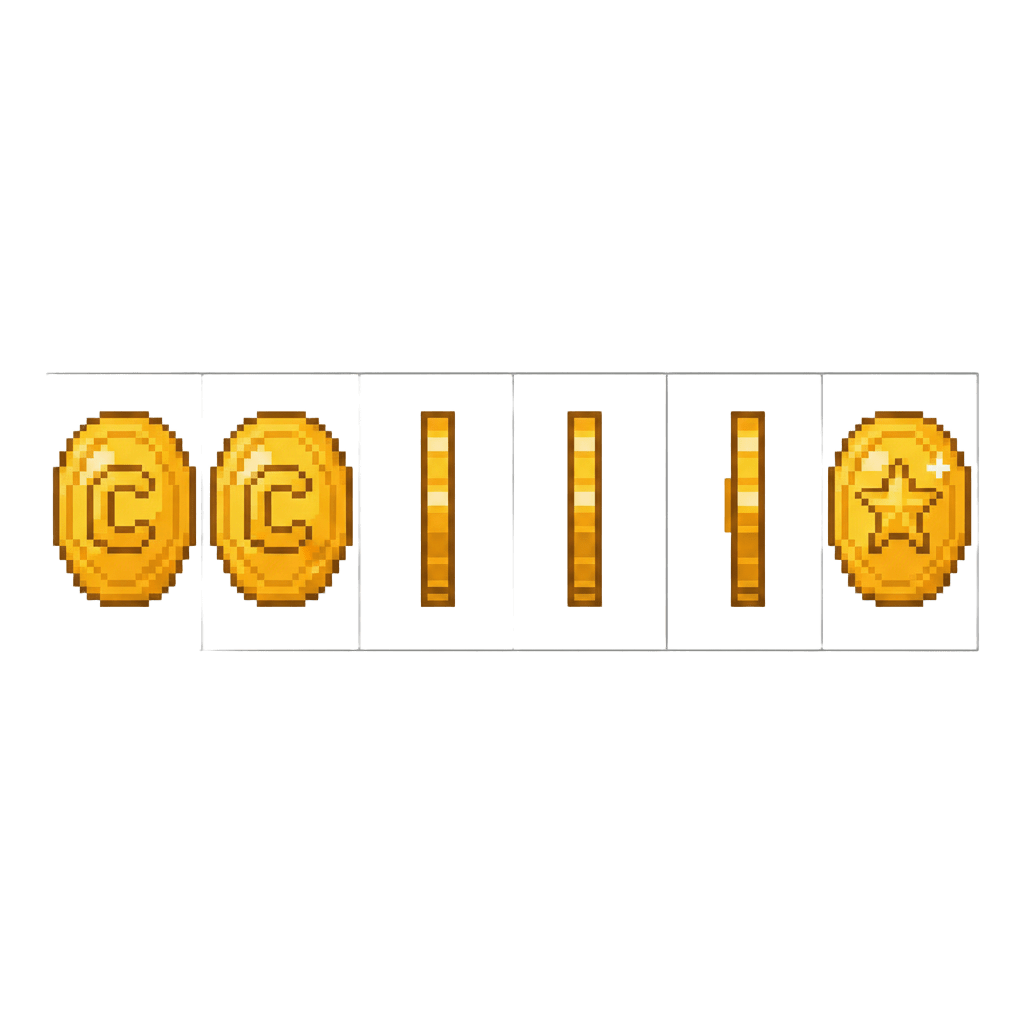
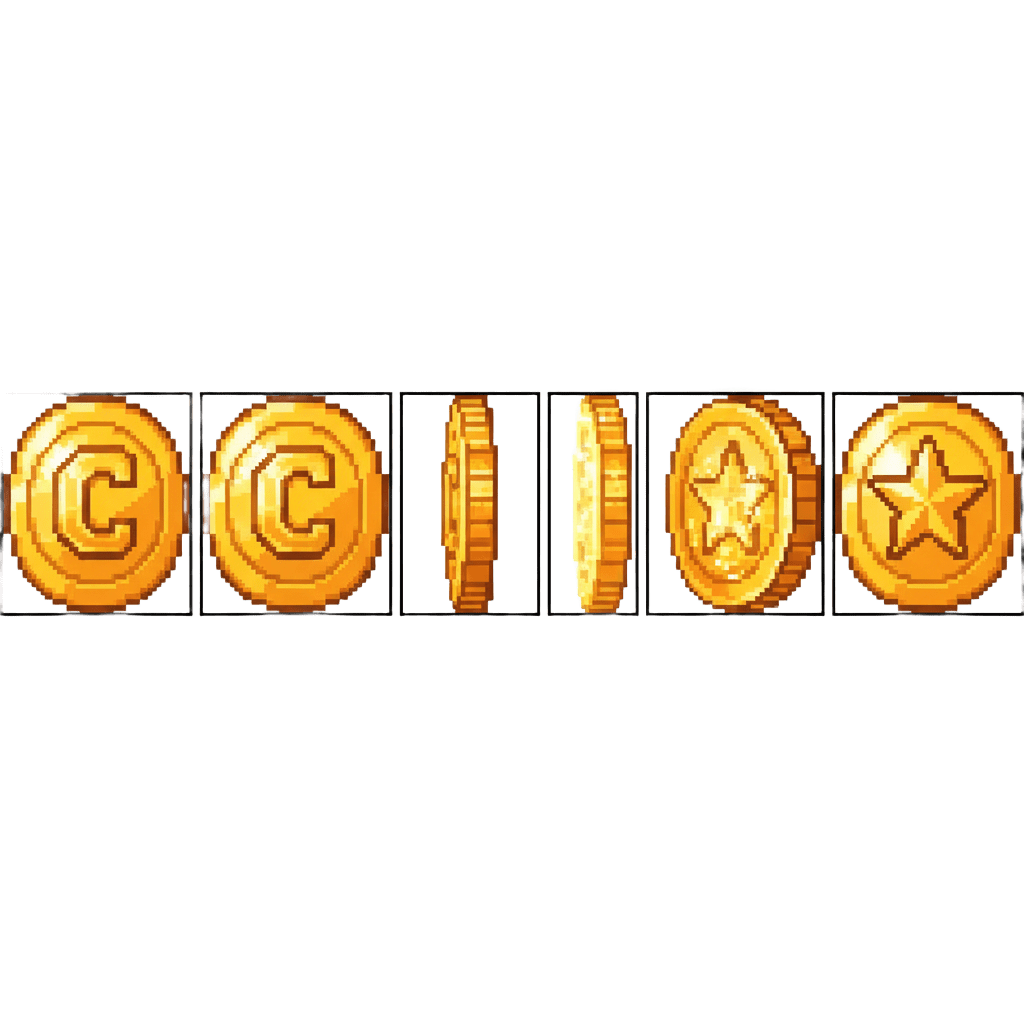
agrego monedas

Changed region(s): [[0.0, 0.3438, 1.0, 0.625], [0.0, 0.5938, 0.0312, 0.625]]

diff --git a/Entrega5/js/flappy/Game.js b/Entrega5/js/flappy/Game.js
@@ -29,7 +29,7 @@ class Game {
 
     this.collectibles = []; // Array para los coleccionables
     this.collectibleSpawnTimer = 0;
-    this.collectibleSpawnInterval = 1000; // Cada 3 segundos intenta spawnear
+    this.collectibleSpawnInterval = 3000; // Cada 3 segundos intenta spawnear
   }
 
   init() {
@@ -128,23 +128,52 @@ class Game {
     if (this.collectibleSpawnTimer >= this.collectibleSpawnInterval) {
       this.collectibleSpawnTimer = 0;
 
-      // Cambiar la probabilidad a 100% para testing
-      if (Math.random() < 1.0) {
-        // ← Cambiar de 0.3 a 1.0
-        // Cambiar el ratio para que salgan más power-ups
-        const type = Math.random() < 0.2 ? "coin" : "powerup"; // ← Cambiar de 0.7 a 0.2 (80% power-ups)
+      // Probabilidad de spawn
+      if (Math.random() < 0.2) return; // ← 50% de chance, menos spawns
 
-        const minY = 100;
-        const maxY = this.gameArea.offsetHeight - 100;
-        const y = Math.random() * (maxY - minY) + minY;
+      // Tipo de coleccionable
+      const type = Math.random() < 0.6 ? "coin" : "powerup";
 
-        const x = this.gameArea.offsetWidth;
+      const x = this.gameArea.offsetWidth;
 
-        const collectible = new Collectible(this, type, x, y);
-        this.collectibles.push(collectible);
+      // ===========================
+      //   GENERAR Y SEGURO
+      // ===========================
+      let y;
+      let safe = false;
+      let attempts = 0;
 
-        console.log(`✨ Spawned ${type} at (${x}, ${y})`);
+      while (!safe && attempts < 10) {
+        attempts++;
+
+        const minY = 80;
+        const maxY = this.gameArea.offsetHeight - 80;
+        y = Math.random() * (maxY - minY) + minY;
+
+        safe = true; // lo asumimos seguro hasta probar
+
+        // Comprobar contra cada tubería
+        this.pipes.forEach((pipe) => {
+          // Zona de la pipe superior
+          const topPipeBottom = pipe.topHeight;
+
+          // Zona de la pipe inferior
+          const bottomPipeTop = pipe.topHeight + pipe.gap;
+
+          // Chequear si y está dentro de una pipe
+          if (y < topPipeBottom + 40 && y + 40 > 0) safe = false;
+          if (y > bottomPipeTop - 40 && y < this.gameArea.offsetHeight)
+            safe = false;
+        });
       }
+
+      if (!safe) return; // si no encontró lugar libre, no spawnea
+
+      // Crear colectable
+      const collectible = new Collectible(this, type, x, y);
+      this.collectibles.push(collectible);
+
+      console.log(`✨ Spawned ${type} at (${x}, ${y})`);
     }
   }
 

diff --git a/Entrega5/css/parallax.css b/Entrega5/css/parallax.css
@@ -456,14 +456,14 @@
   background-image: url("/assets/bird/DEATH.png") !important;
   background-size: 112px 64px !important;
   animation: demonDead 0.4s steps(7) forwards !important; /* forwards en vez de infinite */
-  transform-origin: center center !important; /* Cambiar el origen para que rote desde el centro */
+  transform-origin: top left !important; /* Cambiar el origen para que rote desde el centro */
 }
 
 .anim-atack {
   background-image: url("/assets/bird/ATTACK.png") !important;
   background-size: 128px 64px !important;
   animation: attack 0.8s steps(8) forwards !important; /* forwards en vez de infinite */
-  transform-origin: center center !important; /* Cambiar el origen para que rote desde el centro */
+  transform-origin: top left !important; /* Cambiar el origen para que rote desde el centro */
 }
 
 @keyframes demonDead {
@@ -475,7 +475,7 @@
   }
 }
 
-@keyframes attack{
+@keyframes attack {
   0% {
     background-position: 0px;
   }
@@ -483,22 +483,24 @@
     background-position: -128px;
   }
 }
-
 .coin {
-  background-image: url('/assets/bird/coin.png');
-  background-size: 240px 40px; /* Ajusta según tu sprite */
+  width: 16px;
+  height: 16px;
+  background-image: url("/assets/bird/gold.png");
   background-repeat: no-repeat;
+  background-size: 128px 16px; /* 8 frames de 16px → 128px */
+  transform: scale(2);
   image-rendering: pixelated;
-  animation: coinAanim 0.8s steps(6) infinite;
+
+  animation: coinAnim 0.6s steps(8) infinite;
 }
 
-@keyframes coinAanim {
-  0% {
+@keyframes coinAnim {
+  from {
     background-position: 0px;
   }
-  100% {
-    background-position: -240px;
+  to {
+    background-position: -128px;
   }
 }
-
-
+  

diff --git a/Entrega5/js/flappy/Collectible.js b/Entrega5/js/flappy/Collectible.js
@@ -15,21 +15,16 @@ class Collectible {
   createElement() {
     this.element = document.createElement("div");
     this.element.style.position = "absolute";
-    this.element.style.width = `${this.width}px`;
-    this.element.style.height = `${this.height}px`;
+
     this.element.style.left = `${this.x}px`;
     this.element.style.top = `${this.y}px`;
     this.element.style.zIndex = "15";
     if (this.type === "coin") {
       // Moneda con tu animación CSS
       this.element.className = "coin";
-      this.element.style.width = "40px"; // ← Tamaño de un frame individual
-      this.element.style.height = "40px"; // ← Tamaño de un frame individual
-      this.element.style.position = "absolute";
-      this.element.style.left = `${this.x}px`;
-      this.element.style.top = `${this.y}px`;
-      this.element.style.zIndex = "15";
     } else if (this.type === "powerup") {
+      this.element.style.width = `${this.width}px`;
+      this.element.style.height = `${this.height}px`;
       // Power-up estilo pixel art
       this.element.style.background = `
         linear-gradient(135deg, 
